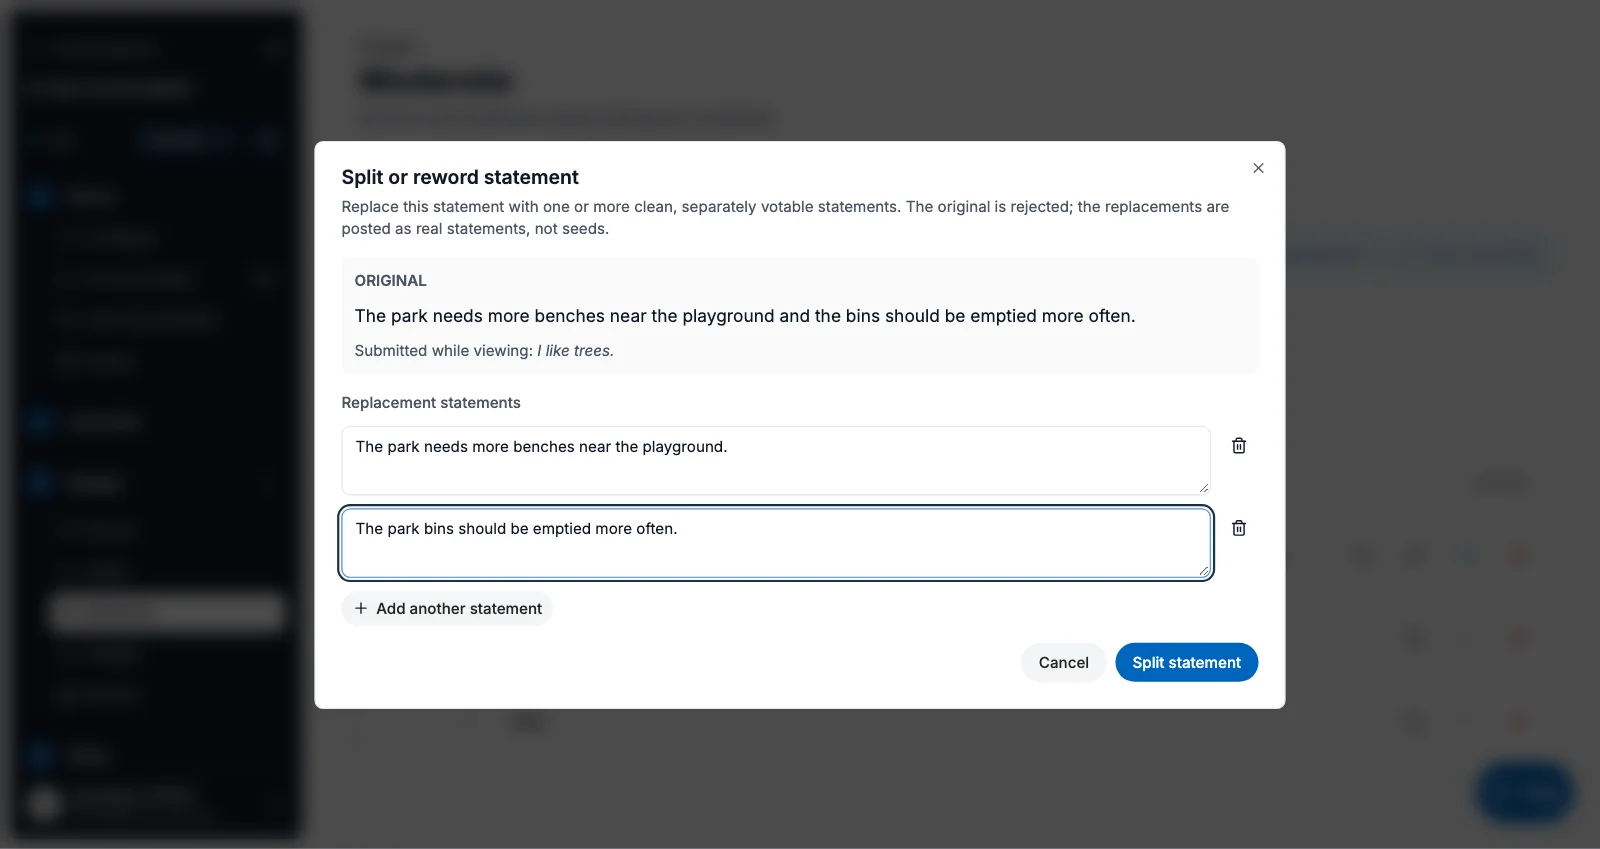
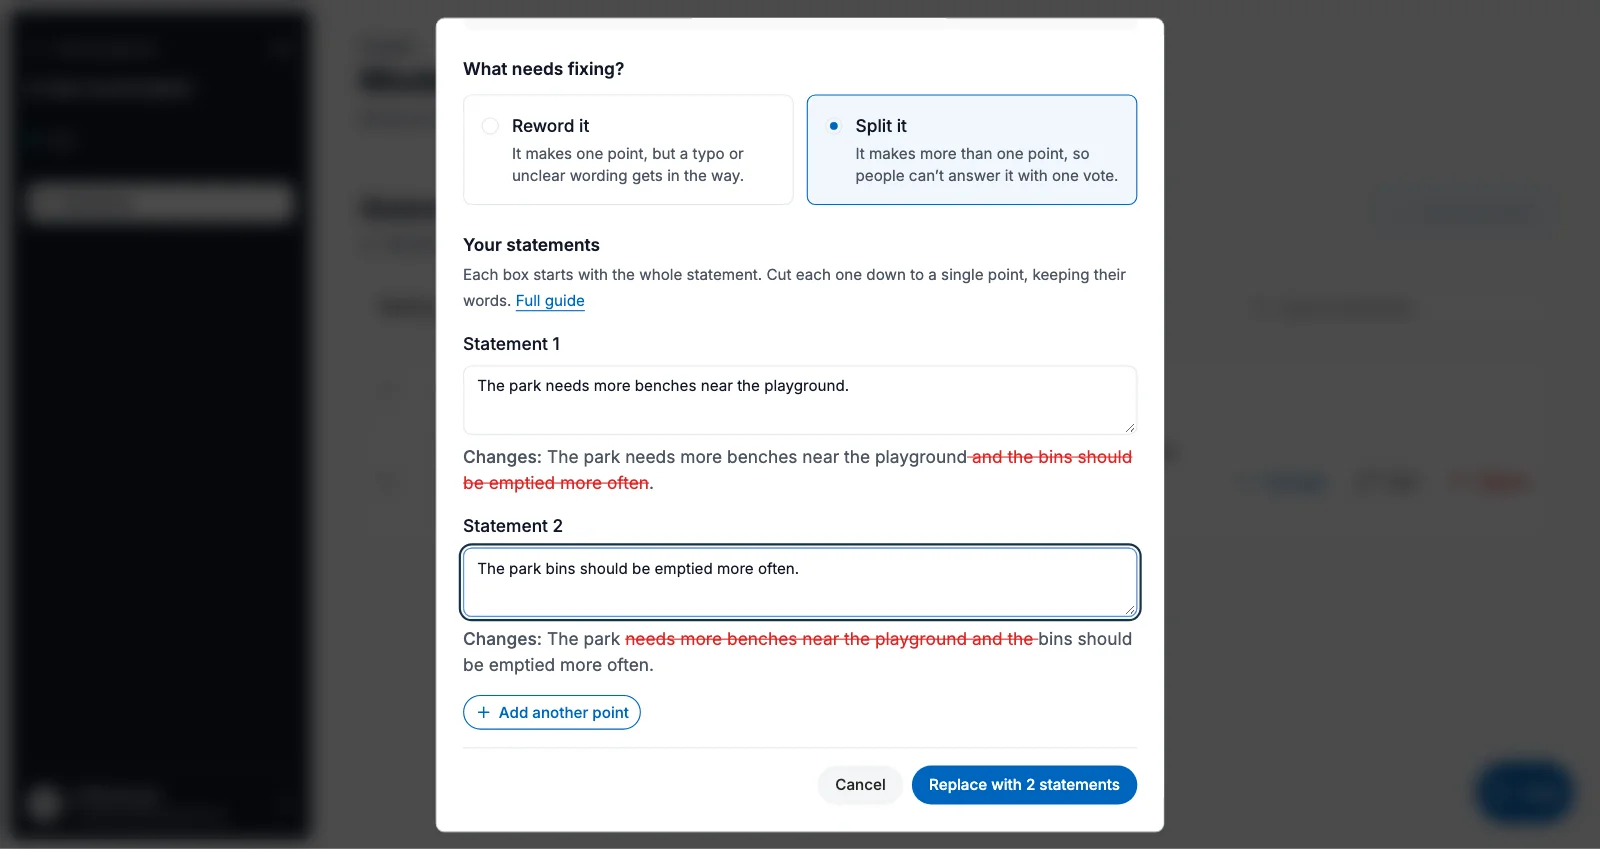
Update handbook moderator screenshots

Changed region(s): [[0.0, 0.0, 0.8125, 0.98], [0.0, 0.5512, 0.0312, 0.5819], [0.0, 0.49, 0.0312, 0.5206]]

diff --git a/ui/packages/comhairle/src/lib/admin_guides.ts b/ui/packages/comhairle/src/lib/admin_guides.ts
@@ -753,7 +753,7 @@ export const ADMIN_GUIDES: Record<string, AdminGuide> = {
 					'In a Participant-led poll, participants can write their own statements. Moderate them so that only appropriate statements are shown to others.',
 				image: {
 					src: moderateImage,
-					alt: 'Engage → Moderate for a Participant-led poll step. Statements moderation has Download CSV and Sync from Polis buttons, a search box, the All, Seeded, Accepted, Pending and Rejected filters, and a list of statements. The Reject statement popover is open, with an optional Reason and Note, and Cancel and Reject buttons.'
+					alt: 'The Moderate page as a moderator sees it, with Moderate as the only item in the sidebar. The Statements moderation step opens on the Waiting tab, next to Accepted, Rejected and All, with a Moderation rules link, a search box and a Download report button. One statement about park benches and bins is waiting, with Accept, Edit and Reject buttons.'
 				},
 				steps: [
 					'Before you launch, set your reasons for rejecting statements, such as "Off-topic", under **Configure** → **Moderation policy**.',
@@ -835,7 +835,7 @@ export const ADMIN_GUIDES: Record<string, AdminGuide> = {
 					'Get to know the [moderation](/admin/info/glossary#term-moderation) screen for a Participant-led poll, then work through the decision each new statement needs and how to carry it out.',
 				image: {
 					src: moderationInDepthImage,
-					alt: 'The Moderate page for a Participant-led poll step, filtered to Accepted. Two statements have an Edited badge and Edited from: the original statement about park benches and bins. Each row has translate, pencil, tick and cross icons, and Download CSV and Sync from Polis buttons sit above the search box and filters.',
+					alt: 'The Moderate page as a moderator sees it, on the Accepted tab. Two statements, one about park benches and one about bins, each say Edited from the original statement that made both points. Two seed statements carry a Seed badge. Each row has Edit, Reject and more actions buttons, and the Moderation rules link, search box and Download report button sit above the list.',
 					caption:
 						'The moderation screen for a Participant-led poll step, showing two statements split from one.'
 				},
@@ -902,7 +902,7 @@ export const ADMIN_GUIDES: Record<string, AdminGuide> = {
 							result: 'The statement moves to **Rejected** and is hidden from participants. The reason and note are kept in the moderation log for your team; participants are not told why.',
 							image: {
 								src: rejectStatementImage,
-								alt: 'The Reject statement popover open on a statement’s row, with the Reason "Off-topic or unclear" chosen, a Note reading "This statement isn’t about trees", and Cancel and Reject buttons.',
+								alt: 'The Reject statement dialog for the statement "hello". Under Which rule does it break?, "Off-topic or unclear" is chosen from five reasons. The Note for your team reads "This statement isn’t about trees", above Cancel and Reject statement buttons and a reminder that participants don’t see reasons or notes.',
 								caption:
 									'Rejecting an off-topic statement, with a note for the moderation log.'
 							}
@@ -916,10 +916,10 @@ export const ADMIN_GUIDES: Record<string, AdminGuide> = {
 								'Each box starts with the participant’s words. Change only what stops people voting, and keep their words and tone. For a split, cut each box down to one point, and click **+ Add another point** if there are more.',
 								'The dialog shows your changes against what the participant wrote. Click **Replace statement**. If something isn’t ready, the dialog says what to fix next to the button.'
 							],
-							result: 'The new statements are posted and appear in **Accepted** with an **Edited** badge and **Edited from:** the original. The original is rejected. Votes do not carry over to the new statements.',
+							result: 'The new statements are posted and appear in **Accepted**, each with **Edited from** and the original statement under its text. The original is rejected. Votes do not carry over to the new statements.',
 							image: {
 								src: splitStatementImage,
-								alt: 'The Edit statement dialog. The original statement, "The park needs more benches near the playground and the bins should be emptied more often.", is split into two replacement statements, one about benches and one about bins, with Add another statement, Cancel and Split statement buttons.',
+								alt: 'The Edit statement dialog with Split it chosen under What needs fixing?. Statement 1 reads "The park needs more benches near the playground." and Statement 2 reads "The park bins should be emptied more often.", each with the words removed from the original shown struck through. Below are Add another point, Cancel and Replace with 2 statements buttons.',
 								caption:
 									'Splitting a statement that makes two proposals into two separate statements.'
 							}
